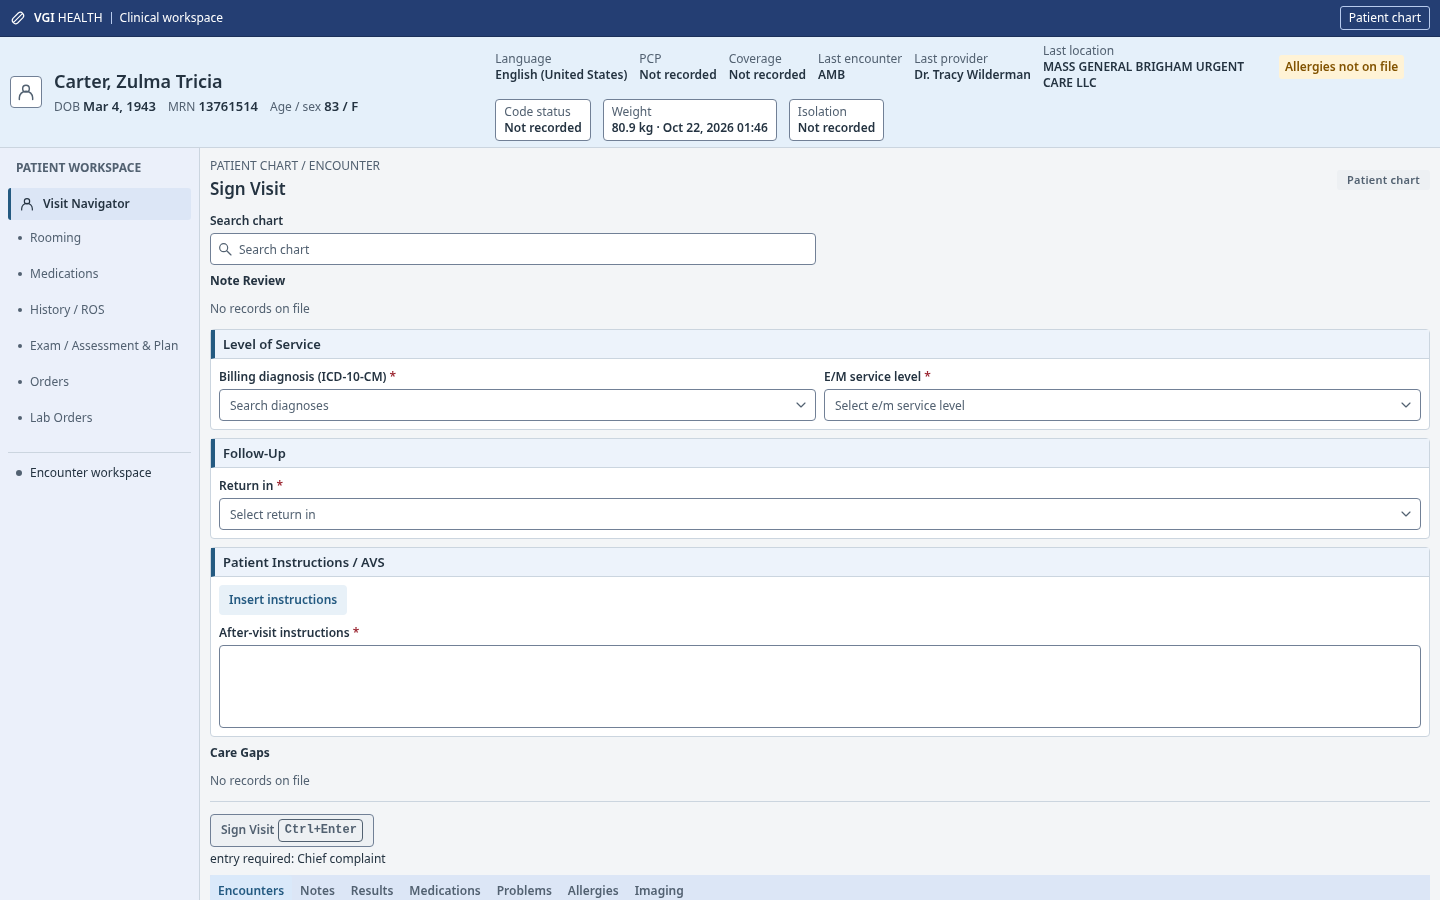
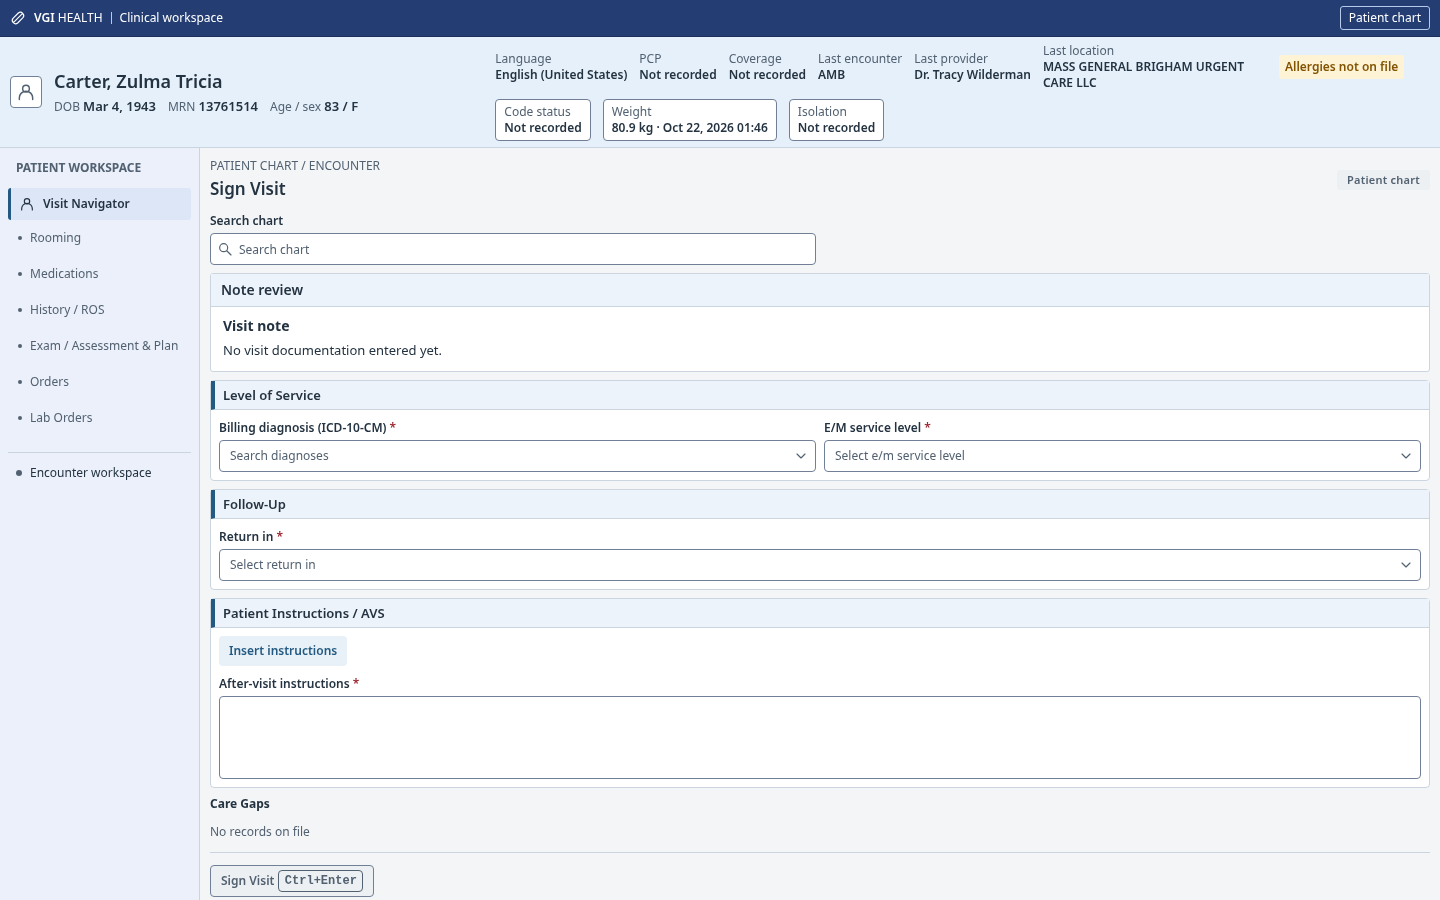
Publish verified current visit note review and before-after evidence

Changed region(s): [[0.125, 0.28, 1.0, 0.7778], [0.125, 0.8089, 0.4688, 1.0]]

diff --git a/app/e2e/ambulatory-realism.spec.ts b/app/e2e/ambulatory-realism.spec.ts
@@ -76,11 +76,20 @@ for (const persona of ["P1", "P4"]) {
         if (scrollable) {
           await page.keyboard.press("End");
           await expect
-            .poll(() => document.evaluate((element) => element.scrollTop))
-            .toBeGreaterThan(0);
+            .poll(() =>
+              document.evaluate((element) =>
+                Math.abs(
+                  element.scrollHeight -
+                    element.clientHeight -
+                    element.scrollTop,
+                ),
+              ),
+            )
+            .toBeLessThanOrEqual(1);
           await document.evaluate((element) => {
             element.scrollTop = 0;
           });
+          await expect(document).toHaveJSProperty("scrollTop", 0);
         }
         await page.screenshot({
           path: join(

diff --git a/docs/design/ehr-ui-research.md b/docs/design/ehr-ui-research.md
@@ -562,6 +562,10 @@ The source `noteSummary` now projects the actual current note captures, preservi
 | W1 Sign Visit | Note review remained empty after HPI entry. | Current entered history, ROS, examination, plan and other note sections are shown verbatim, with pending confirmation explicit. |
 | W5 Sign Visit | The closing note panel did not reflect the pediatric Visit Note editor. | The current pediatric note, including documented anticipatory guidance, appears in the same read-only document layout. |
 
+M10 visual review: the initial empty state now explicitly identifies an unstarted note. After actual native entry, the PCP and NP closing screens show the entered sections and their confirmation state in one document pane, while billing/follow-up/instructions remain separate. The keyboard test reaches the end of the pane and resets it to the top before capture; waiting for the completed scroll prevents an animated intermediate position from clipping the first heading in the evidence image. The body retains every source row and line break. The six new comparison/detail images bring the AMB gallery to **83** captures.
+
+M10 verification (source `6da7318` with the capture-timing correction): default **357**-job build, kernel, root Comparator and **58** frozen renderer statements pass. All **157** previous Render/PatchWitness theorem headers remain unchanged. Certification remains **15/15**, bad programs **18/18** rejected, World 2 **1,284/1,284**, and the native button audit **277** (**266** enabled / **11** explained disabled). Native/WASM matches **34** initial ambulatory views plus the actual-entry/confirmation probes: **9** human note entries, **2** closing note views and **2** pending-confirmation cases. The saved before binary reproduces the empty panel for the same entries. All **16** structured fixtures, **240** app tests, **84** agent tests with typecheck/lint, **7** seed tests, **83** desktop/narrow fidelity checks (three intended viewport skips), **37** current-state and **31** before-state screen checks pass. The two note-detail views additionally verify complete keyboard scrolling. Primitive fact comparison remains **324** bundles / **0** differences; archived replay remains **0** mismatches, and all **21** workflow effort groups remain exactly unchanged. No new D-rule or clinical spec change was introduced.
+
 ## Presentation lane: structured clinical widgets
 
 Research and implementation: 2026-11-01, `lane/present`. The stable integration API is [presentation-contract.md](presentation-contract.md). These are original drawings of public interaction and information patterns. Vendor screenshots were inspected in temporary files outside the repository; no vendor image, icon, logo, or copied screen composition is shipped.
